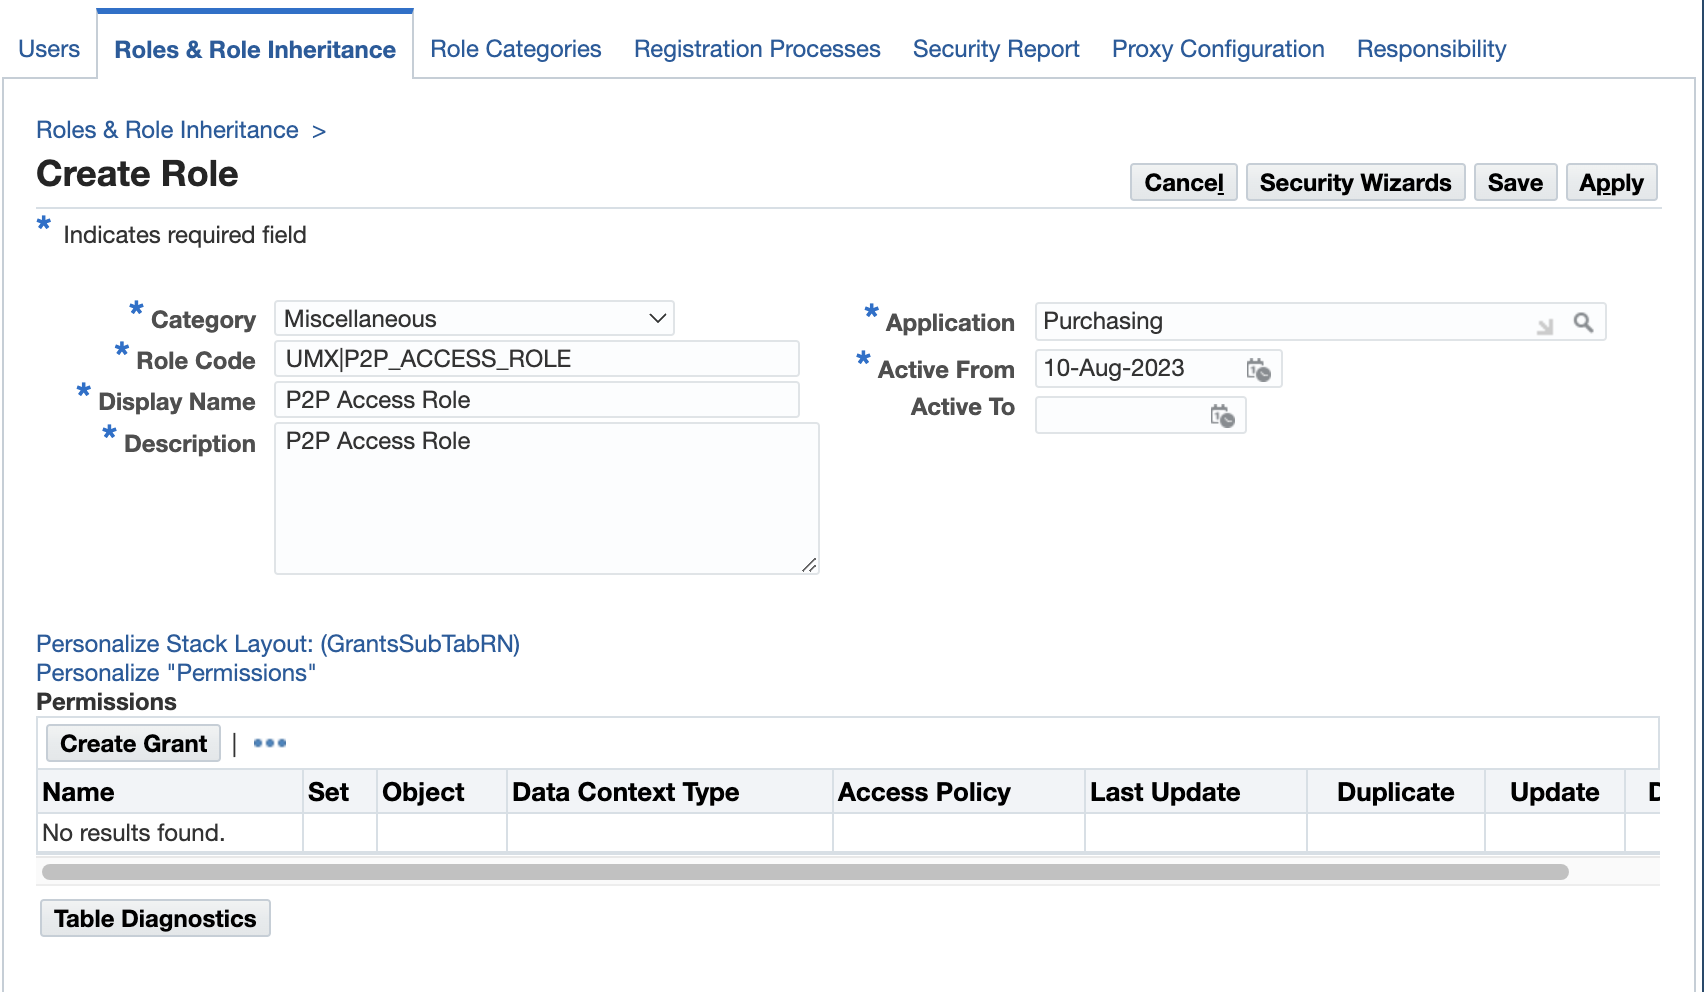
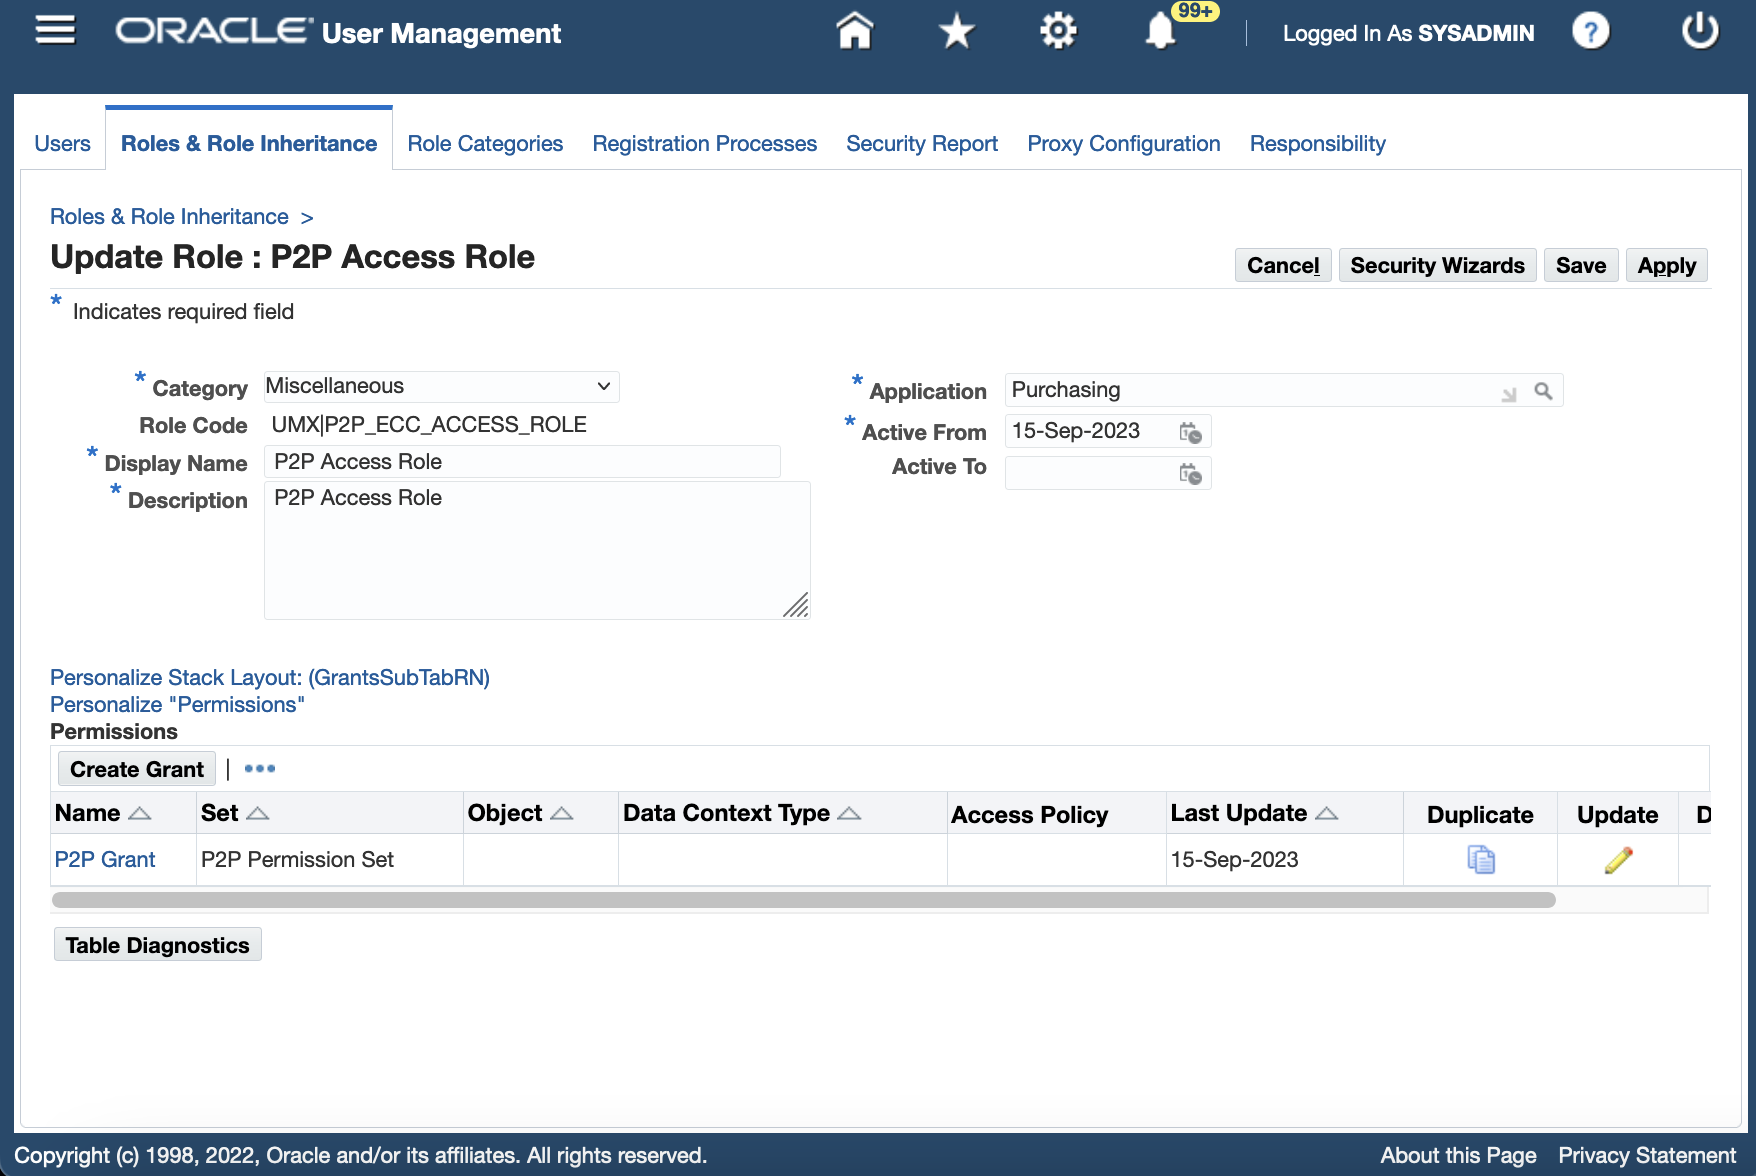
Added new screenshots for easy navigation

diff --git a/ecc-developer-hol/query/eccpersonalizationtemplate/eccpersonalizationtemplate.md b/ecc-developer-hol/query/eccpersonalizationtemplate/eccpersonalizationtemplate.md
@@ -423,27 +423,35 @@ Password: welcome1
                                                                ```
   	    <copy>P2P Grant</copy>
             ```
-    *	Under security context section, Responsibility: Procure to Pay Operations Manager
+    *	Under security context section, select the Responsibility as: 
+            ```
+  	    <copy>Procure to Pay Operations Manager</copy>
+        ```
+        ![Create Grant](../images/creategrantforp2p.png "Create Grant")
     *	Click on “Next” button
-    *	Provide the permission set as “P2P Permission Set”
+    *	Provide the set as
+            ```
+  	    <copy>P2P Permission Set</copy>
+        ```
+        ![Create Grant](../images/creategrantforp2p1.png "Create Grant")
     *	Click on the “Next” button and then the “Finish” button to create the grant
 8.	Now, upon clicking “Ok” in the confirmation dialog, the user is navigated to the “Update Access Role” page
 9.	Click on “Apply” button
 
     ![Access Role](../images/ss17.png "Access Role")
-    ![Grant](../images/ss18.png "Grant")
 
 **Run Workflow Background Process:**
 
 1.	Navigate to EBS Home Page -> System Administration responsibility -> Schedule Requests
+    ![Schedule Requests](../images/schedulerequests.png "Schedule Requests")
 2.	Provide the Program Name as “Workflow Background Process”
 3.	Under Parameters section, provide the below details:
     *	Process Deferred: Yes
     *	Process Timeout: No
+    ![Workflow Background Process](../images/ss19.png "Workflow Background Process")
 4.	Click on “Continue” button and then on “Submit” button
 5.  Once the “Workflow Background Process” request is completed successfully, proceed to the next step to clear the application cache
-
-    ![Workflow Background Process](../images/ss19.png "Workflow Background Process")
+    ![Workflow Background Process](../images/wfbgprocess.png "Workflow Background Process")
 
 **Clear Application Cache:**
 
@@ -479,6 +487,7 @@ Password: welcome1
     ![Users](../images/userspath.png "Users")
 2.	Provide the User Name as “OPERATIONS” and click on “Go” button
 3.	Click on update icon in the results for OPERATIONS user
+    ![Update User](../images/assignresptouser.png "Update User")
 4.	Click on “Assign Roles” button and add “Procure to Pay Operations Manager”
 5.	Provide the Justification like “New Responsibility for ECC HOL”
 6.  Click on “Apply” button
@@ -490,14 +499,15 @@ Password: welcome1
 **Run Workflow Background Process:**
 
 1.	Navigate to EBS Home Page -> System Administration responsibility -> Schedule Requests
+    ![Schedule Requests](../images/schedulerequests.png "Schedule Requests")
 2.	Provide the Program Name as “Workflow Background Process”
 3.	Under Parameters section, provide the below details:
-    * Process Deferred: Yes
-    * Process Timeout: No
-4.	Click on “Continue” button and then on “Submit” button
-5.	Once the “Workflow Background Process” request is completed successfully, proceed to the next step to clear the application cache
-
+    *	Process Deferred: Yes
+    *	Process Timeout: No
     ![Workflow Background Process](../images/ss19.png "Workflow Background Process")
+4.	Click on “Continue” button and then on “Submit” button
+5.  Once the “Workflow Background Process” request is completed successfully, proceed to the next step to clear the application cache
+    ![Workflow Background Process](../images/wfbgprocess.png "Workflow Background Process")
 
 **Clear Application Cache:**
 
